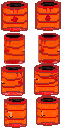
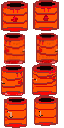
mfs now move in a fight

diff --git a/scripts/scenes/monsterbook.js b/scripts/scenes/monsterbook.js
@@ -101,12 +101,11 @@ scenes.monsterbook = () => {
                 alpha: 1,
                 fill: colors.buttontoppressed
             }));
-
             disgustingMonsters.push(controls.image({
                 anchor: [0.033 + 0.1 * hor, 0.2 + 0.15 * ver], sizeOffset: [64, 64], enm: possibleEnm,
                 snip: [0, 0, 32, 32],
                 alpha: 1,//killedEnm != 0 ? 1 : 0,
-                source: killedEnm != -1 ? possibleEnm : "black"
+                source: killedEnm != -1 ? "enemies/" + enemyTypes[possibleEnm].source : "enemies/black"
             }));
 
             disgustingMonsters.push(controls.label({

diff --git a/scripts/enemies.js b/scripts/enemies.js
@@ -78,7 +78,14 @@ let enemyTypes = {
         name: "Weak Ent", source: "ent", element: "earth",
         HP: 4, strength: 4,
         eva: 10, acc: 60, agi: 20, luk: 0,
-        items: { "potion": 25 },
+        items: { "headwood": 25, "bodywood": 25, "swordwood": 25, "shieldwood": 25 },
+    },
+    
+    "evil_peter": {
+        name: "Evil Peter", source: "evilpeter", element: "physical",
+        HP: 6, strength: 2,
+        eva: 10, acc: 50, agi: 60, luk: 20,
+        items: "none",
     },
 
     // OLDIES

diff --git a/scripts/scenes/pretitle.js b/scripts/scenes/pretitle.js
@@ -96,7 +96,11 @@ scenes.pretitle = () => {
                     loadSettings();
 
                     createEnemy("weakhelter");
+                    createEnemy("weakhelter");
                     createEnemy("ent_weak");
+                    createEnemy("ent_weak");
+                    createEnemy("evil_peter");
+                    createEnemy("evil_peter");
 
                     setScene(scenes.fight());
                 }

diff --git a/scripts/scenes/fight.js b/scripts/scenes/fight.js
@@ -3371,6 +3371,8 @@ scenes.fight = () => {
                     positionControls[pcc].snip = battleAnimation(occ, positionControls[pcc].emo, Math.floor(globalFightAnimationTime));
 
                 }
+
+                epositionControls[pcc].snip = [32 * Math.floor(globalFightAnimationTime), 32, 32, 32];
             }
 
             // kokitozi particles

diff --git a/scripts/resources.js b/scripts/resources.js
@@ -153,6 +153,7 @@ let images = {
     "enemies/nottoofresh": "data/images/enemies/NotTooFreshEnemy.png",
 
     "enemies/ent": "data/images/enemies/179_ent.png",
+    "enemies/evilpeter": "data/images/enemies/661_evilpeter.png",
 
     // Tiles
     "tiles/empty": "data/images/tiles/empty.png",
